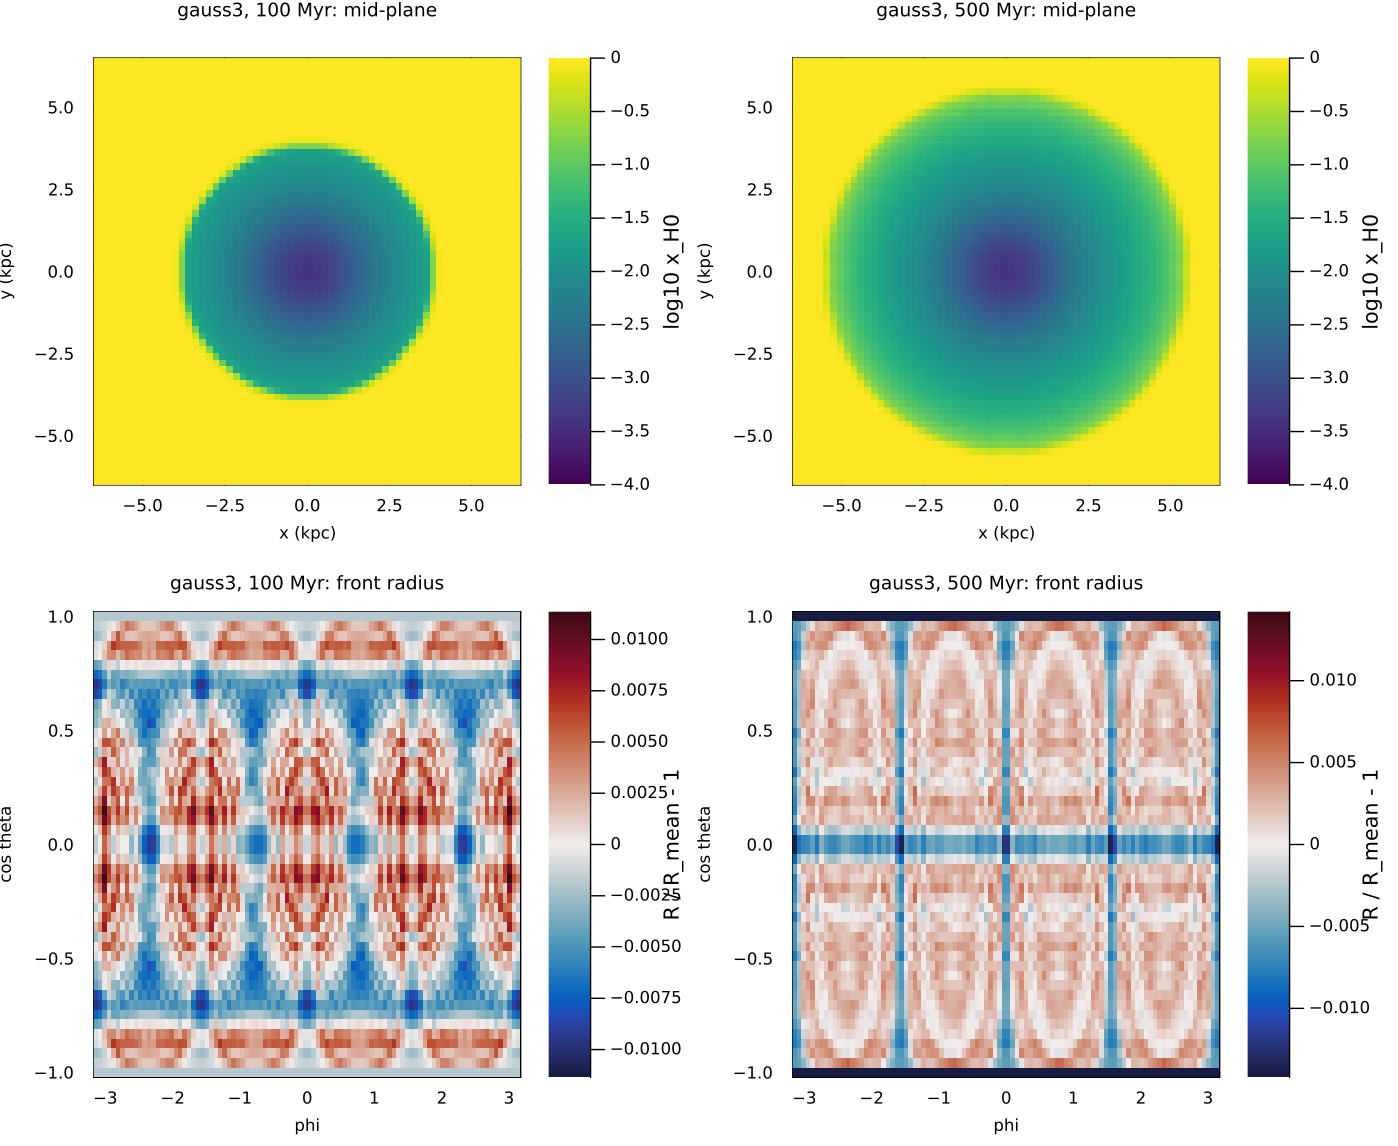
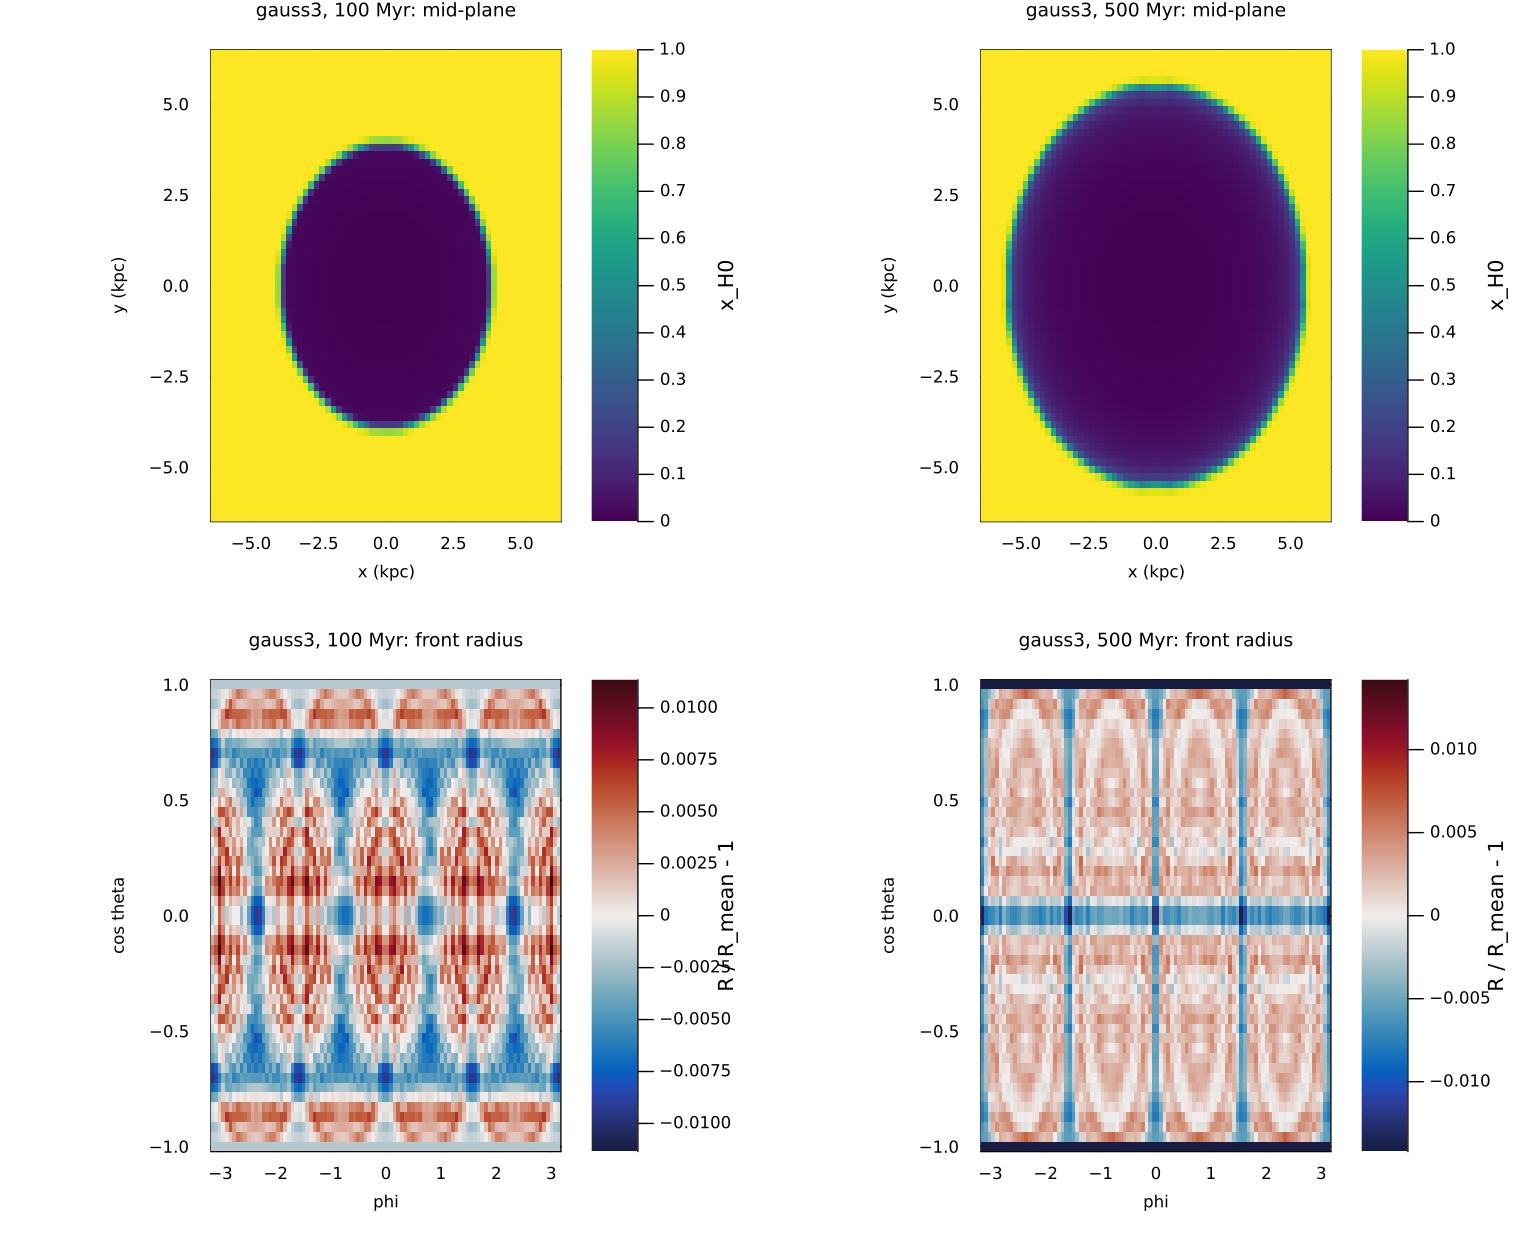
docs(sphericity, dtype): linear neutral fraction, and margins that keep every label
* The neutral fraction is drawn on a linear scale from 0 to 1, not as
  log10 from -4 to 0.
* Plots.jl has no tight_layout: the grid figures get a 22 mm left margin,
  which is what the tick labels and the y label of the first column need.
  The slices lose the fixed aspect ratio, which made GR place the y label
  outside the figure, and their colour bars; each title gives its colour
  range instead.

diff --git a/docs/photoionization-experiments/sphericity/README.md b/docs/photoionization-experiments/sphericity/README.md
@@ -72,7 +72,7 @@ $r_I$ is the volume-equivalent radius of the ionized gas (`ionized_radius`). For
 
 ![All kernels](sphericity_comparison_be.png)
 
-*One row per kernel. Columns 1 and 2: $\log_{10}$ of the neutral fraction in the mid-plane $z = -\Delta x/2$, at 100 and 500 Myr. Column 3: the front radius in all directions at 500 Myr, $R/\bar R - 1$, against the azimuth $\phi$ and $\cos\theta$, on one colour scale for all rows.*
+*One row per kernel. Columns 1 and 2: the neutral fraction, on a linear scale from 0 to 1, in the mid-plane $z = -\Delta x/2$, at 100 and 500 Myr. Column 3: the front radius in all directions at 500 Myr, $R/\bar R - 1$, against the azimuth $\phi$ and $\cos\theta$, on one colour scale for all rows.*
 
 ![Spread and anisotropy against time](sphericity_summary_be.png)
 

diff --git a/docs/photoionization-experiments/dtype/README.md b/docs/photoionization-experiments/dtype/README.md
@@ -46,7 +46,7 @@ The front and shock radii are means over the 4000 directions.
 
 ![Test 5 at 500 Myr](dtype_comparison_be.png)
 
-*One row per kernel, at 500 Myr. Columns 1 to 3: the mid-plane $z = -\Delta x/2$, $\log_{10}$ of the neutral fraction, $n/n_0$ and $\log_{10} T$. Column 4: the front radius in all directions, $R/\bar R - 1$, against $\phi$ and $\cos\theta$, on one colour scale for all rows.*
+*One row per kernel, at 500 Myr. Columns 1 to 3: the mid-plane $z = -\Delta x/2$, the neutral fraction (linear, 0 to 1), $n/n_0$ and $\log_{10} T$, each with its colour range in its title. Column 4: the front radius in all directions, $R/\bar R - 1$, against $\phi$ and $\cos\theta$, on one colour scale for all rows.*
 
 ![Radii and spreads against time](dtype_radius_be.png)
 
